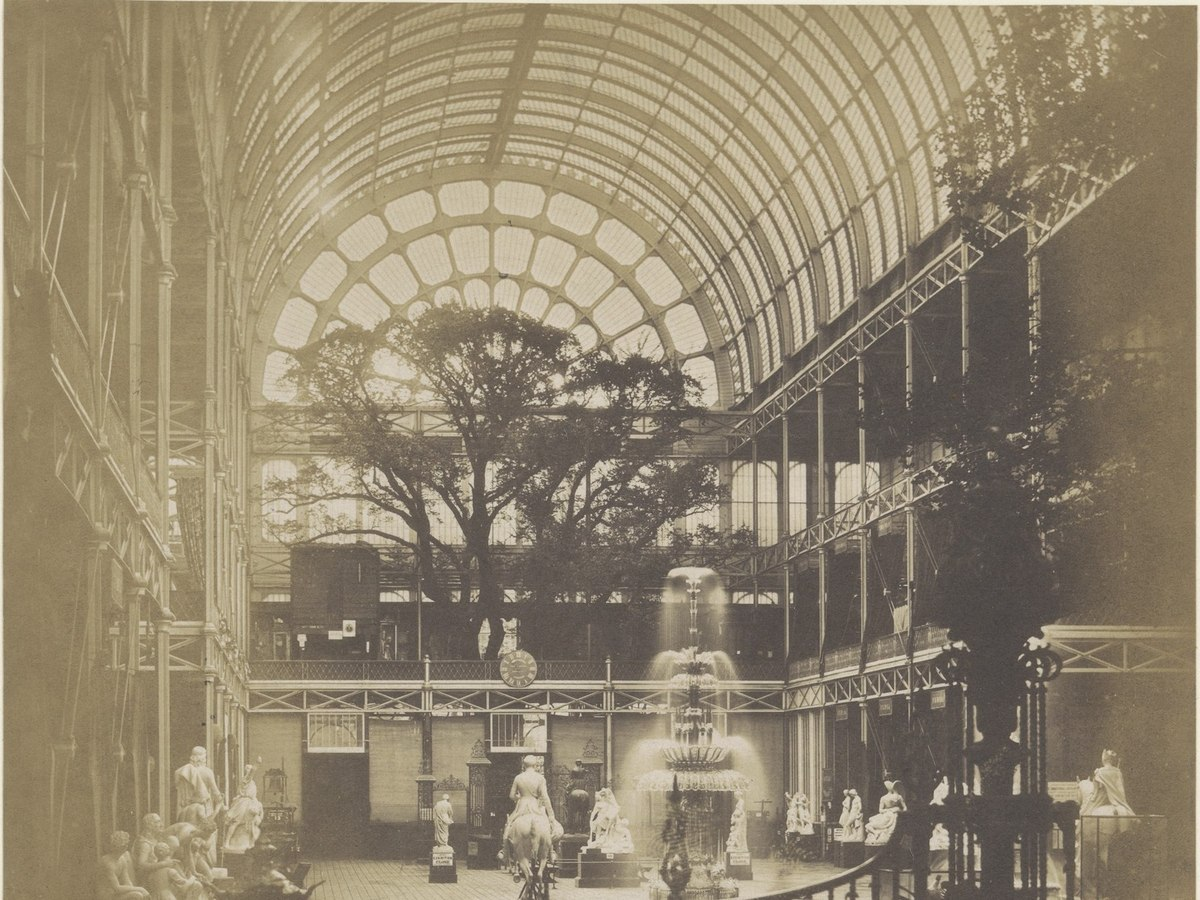
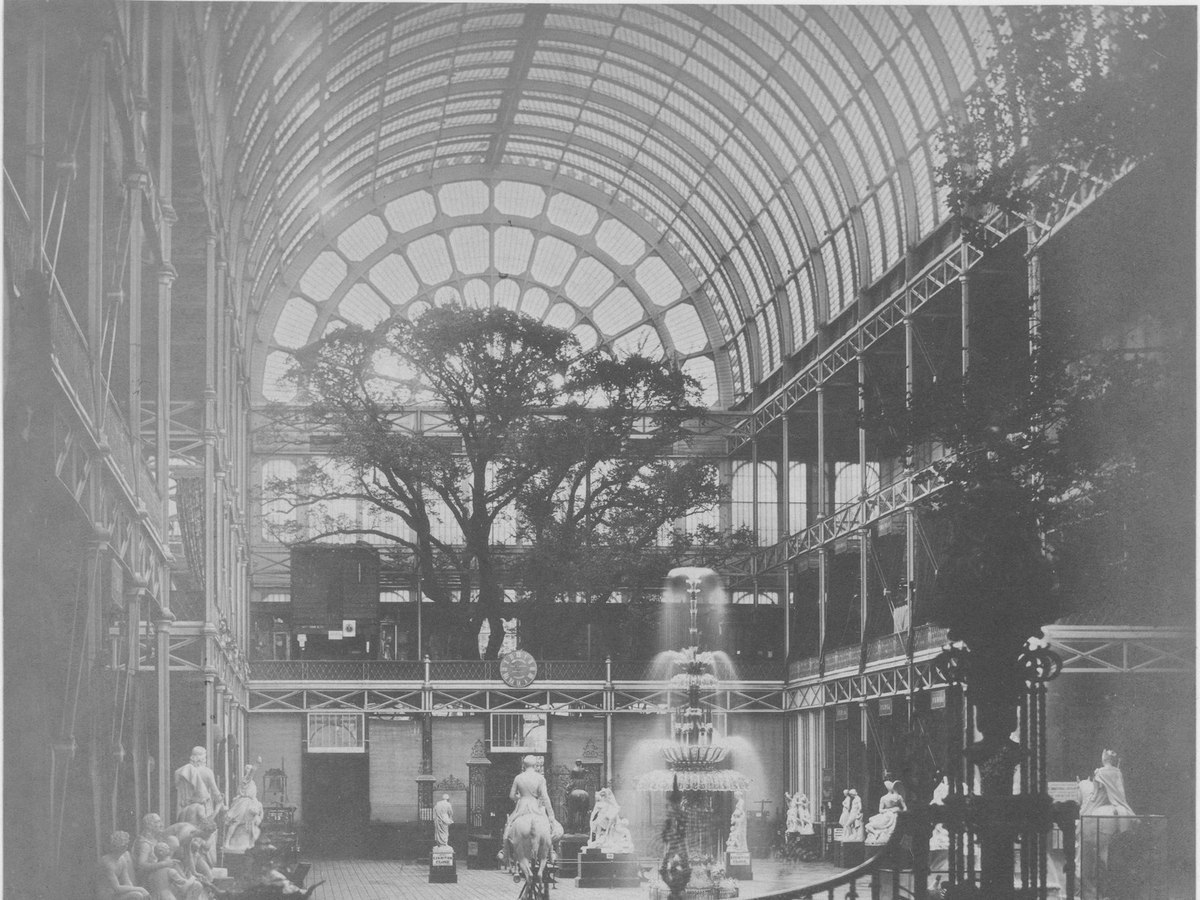
Fix a real bug in the cover gallery: only the picker previews were ever grayscale-converted, never the production source — the live gallery was linking straight to Met's original files, many of which are warm/sepia-toned (period albumen prints), and several are full album-page scans with wide uncrop
Also: swap Instrument Sans for Libre Franklin as the UI's body/nav typeface — a real Franklin-Gothic-plus-Didone editorial pairing with Bodoni Moda, replacing a font that read as generic tech-UI next to it. Rename "Campaigns" to "Projects" in the brand sidebar, page header, and back-navigation.

diff --git a/src/app/shared/mockData.ts b/src/app/shared/mockData.ts
@@ -1,6 +1,27 @@
 import type { Talent, PaymentStatus, CardComment, Campaign, RunwayShow, CastingStageId, CastingEntry, Look, CrewMember, CampaignThreadMessage } from "./types";
 import { formatCampaignDue } from "../../lib/formatDue";
 import coverCrystalPalaceTransept from "../../assets/cover-crystal-palace-transept.jpg";
+import galleryDP138588 from "../../assets/gallery/DP138588.jpg";
+import galleryDP240624 from "../../assets/gallery/DP240624.jpg";
+import galleryDP223650 from "../../assets/gallery/DP223650.jpg";
+import galleryDP43768001 from "../../assets/gallery/DP-43768-001.jpg";
+import galleryDP152207 from "../../assets/gallery/DP152207.jpg";
+import galleryDP273004 from "../../assets/gallery/DP273004.jpg";
+import galleryDP113942 from "../../assets/gallery/DP113942.jpg";
+import galleryDP200352 from "../../assets/gallery/DP200352.jpg";
+import galleryDT1165 from "../../assets/gallery/DT1165.jpg";
+import galleryDT4002 from "../../assets/gallery/DT4002.jpg";
+import galleryDP70292 from "../../assets/gallery/DP70292.jpg";
+import galleryDT223780 from "../../assets/gallery/DT223780.jpg";
+import galleryDP139275 from "../../assets/gallery/DP139275.jpg";
+import galleryDP139298 from "../../assets/gallery/DP139298.jpg";
+import galleryDP221452 from "../../assets/gallery/DP221452.jpg";
+import galleryDP115235 from "../../assets/gallery/DP115235.jpg";
+import galleryDP107953 from "../../assets/gallery/DP107953.jpg";
+import galleryDP107961 from "../../assets/gallery/DP107961.jpg";
+import galleryDP17115001 from "../../assets/gallery/DP-17115-001.jpg";
+import galleryDP112689 from "../../assets/gallery/DP112689.jpg";
+import seuratCover from "../../assets/gallery/seurat-cover.jpg";
 
 // Fixed "today" for demo purposes — drives talent-submission-window open/
 // closed state (see Campaign.submissionOpen/submissionClose) and the
@@ -127,122 +148,37 @@ export const NOTIFS = [
 // campaigns are now individually addressable by id.
 
 // Real, public-domain photographs from The Met's Open Access collection —
-// Pictorialism/Photo-Secession era (1850-1922). Replaces an earlier
-// Unsplash color-stock gallery entirely: DVURE's demo covers are now all
-// genuine black-and-white photography, not a placeholder color library.
-// Anything printed in a warm/sepia tone in the original (typical of
-// period albumen/salt prints) was converted to neutral black-and-white
-// before selection, so the whole pool reads as true B&W, not sepia.
+// Pictorialism/Photo-Secession era (1850-1922). Every file here is a
+// LOCAL asset (src/assets/gallery/), downloaded and force-converted to
+// true neutral grayscale via PIL, not a live link to Met's own CDN —
+// the raw Met files are frequently warm/sepia-toned (period albumen/
+// salt prints), and linking directly to them was a real bug: only the
+// picker PREVIEWS were ever grayscale-converted, never the production
+// source, so the live gallery was showing sepia, not black-and-white.
+// Any future addition MUST go through the same local-convert-then-
+// import step, never a raw metmuseum.org URL.
 const CAMPAIGN_COVER_GALLERY: string[] = [
-  "https://images.metmuseum.org/CRDImages/ph/original/DP138588.jpg", // Felix Teynard, "Esneh, Dattiers, Sycomore et Cafe Sur le Bord du Nil", 1851-54
-  "https://images.metmuseum.org/CRDImages/ph/original/DP240624.jpg", // Gustave Le Gray, "Brig on the Water", 1856
-  "https://images.metmuseum.org/CRDImages/ph/original/DP223650.jpg", // Gustave Le Gray, "[The Great Wave, Sete]", 1857
-  "https://images.metmuseum.org/CRDImages/ph/original/DP-43768-001.jpg", // Edouard Baldus, "Panorama de la Cite", 1860s
-  coverCrystalPalaceTransept, // Hugh Owen, "View of Transept, Looking South", 1851 — hand-cropped locally (see src/assets) to the vaulted-ceiling/fountain portion; the raw Met scan is a portrait-oriented mounted print with wide cream borders and a caption that a generic center-crop would mangle
-  "https://images.metmuseum.org/CRDImages/ph/original/DP152207.jpg", // Carleton E. Watkins, "South Dome, 6,000 feet", ca. 1872
-  "https://images.metmuseum.org/CRDImages/ph/original/DP273004.jpg", // Charles Marville, "[Cloud Study over Paris]", 1856-57
-  "https://images.metmuseum.org/CRDImages/ph/original/DP113942.jpg", // Alfred Capel Cure, "Haughmond Abbey", 1858
-  "https://images.metmuseum.org/CRDImages/ph/original/DP200352.jpg", // Charles Marville, "La Bievre", ca. 1862
-  "https://images.metmuseum.org/CRDImages/ph/original/DT1165.jpg", // Edouard Baldus, "[Entrance to the Port of Boulogne]", 1855
-  "https://images.metmuseum.org/CRDImages/ph/original/DT4002.jpg", // Gustave Le Gray, "Mediterranean with Mount Agde", 1857
-  "https://images.metmuseum.org/CRDImages/ph/original/DP70292.jpg", // Charles Marville, "Allee bordee d'arbres", 1850-53
-  "https://images.metmuseum.org/CRDImages/ph/original/DT223780.jpg", // Constant Alexandre Famin, "[Man in a Forest Landscape]", ca. 1870
-  "https://images.metmuseum.org/CRDImages/ph/original/DP139275.jpg", // Edmond Bacot, "Vue generale de Rouen", 1852-54
-  "https://images.metmuseum.org/CRDImages/ph/original/DP139298.jpg", // Edmond Bacot, "Rue des Petits Murs, Caen", 1852-54
-  "https://images.metmuseum.org/CRDImages/ph/original/DP221452.jpg", // Joseph Vigier, "Sentier du chaos, St-Sauveur", 1853
-  "https://images.metmuseum.org/CRDImages/ph/original/DP115235.jpg", // Unknown, "[St. Pierre, Caen]", 1850s
-  "https://images.metmuseum.org/CRDImages/ph/original/DP107953.jpg", // Roger Fenton, "[Landscape with Clouds]", probably 1856
-  "https://images.metmuseum.org/CRDImages/ph/original/DP107961.jpg", // Roger Fenton, "Wharfe and Pool, Below the Strid", 1854
-  "https://images.metmuseum.org/CRDImages/ph/original/DP-17115-001.jpg", // John Beasley Greene, "[The Nile in front of the Theban Hills]", 1853-54
-  "https://images.metmuseum.org/CRDImages/ph/original/DP112689.jpg", // Francis Bedford, "Clovelly, The New Inn and Street", 1870s
-  "https://images.metmuseum.org/CRDImages/ph/original/DP116350.jpg", // Francis Frith, "[Six East Indian Men]", 1870s
-  "https://images.metmuseum.org/CRDImages/ph/original/DP116351.jpg", // Francis Frith, "Rajpoots", 1870s
-  "https://images.metmuseum.org/CRDImages/ph/original/DP116352.jpg", // Francis Frith, "[Three East Indian Women]", 1870s
-  "https://images.metmuseum.org/CRDImages/ph/original/DP116353.jpg", // Francis Frith, "[Four East Indian Men]", 1870s
-  "https://images.metmuseum.org/CRDImages/ph/original/DP116354.jpg", // Francis Frith, "Marwaree Brokers", 1870s
-  "https://images.metmuseum.org/CRDImages/ph/original/DP116355.jpg", // Francis Frith, "Mehmans", 1870s
-  "https://images.metmuseum.org/CRDImages/ph/original/DP295243.jpg", // Julia Margaret Cameron, "[Ceylonese Group by a Tree]", 1878
-  "https://images.metmuseum.org/CRDImages/ph/original/DP295244.jpg", // Julia Margaret Cameron, "[Egeria]", 1874
-  "https://images.metmuseum.org/CRDImages/ph/original/DP116357.jpg", // Francis Frith, "Watermouth", 1870s
-  "https://images.metmuseum.org/CRDImages/ph/original/DP228859.jpg", // Andre-Adolphe-Eugene Disderi, "Le deux roses", 1860s
-  "https://images.metmuseum.org/CRDImages/ph/original/DP235135.jpg", // Pierre-Louis Pierson, "La capuche", 1860s
-  "https://images.metmuseum.org/CRDImages/ph/original/DP235149.jpg", // Pierre-Louis Pierson, "Le fauteuil", 1860s
-  "https://images.metmuseum.org/CRDImages/ph/original/DP235151.jpg", // Pierre-Louis Pierson, "La fouriure", 1860s
-  "https://images.metmuseum.org/CRDImages/ph/original/DP235155.jpg", // Pierre-Louis Pierson, "Le liseur", 1860s
-  "https://images.metmuseum.org/CRDImages/ph/original/DP235162.jpg", // Pierre-Louis Pierson, "Le montagnard", 1860s
-  "https://images.metmuseum.org/CRDImages/ph/original/DP235163.jpg", // Pierre-Louis Pierson, "L'Enfant blanc", 1860s
-  "https://images.metmuseum.org/CRDImages/ph/original/DP235184.jpg", // Pierre-Louis Pierson, "[La Comtesse in Hat with Veil and Cape with Fringe, Serie a la Ristori]", 1860s
-  "https://images.metmuseum.org/CRDImages/ph/original/DP-43768-001.jpg", // Edouard Baldus, "Panorama de la Cite", 1860s
-  "https://images.metmuseum.org/CRDImages/ph/original/DP-43768-010.jpg", // Edouard Baldus, "Pavillon Sully", 1850s-60s
-  "https://images.metmuseum.org/CRDImages/ph/original/DP-43768-013.jpg", // Edouard Baldus, "La Madeleine", 1860s
-  "https://images.metmuseum.org/CRDImages/ph/original/DP-43768-020.jpg", // Edouard Baldus, "Pantheon", 1860s
-  "https://images.metmuseum.org/CRDImages/ph/original/DP-43768-021.jpg", // Edouard Baldus, "Corps Legislatif", 1860s
-  "https://images.metmuseum.org/CRDImages/ph/original/DP113875.jpg", // Felix Bonfils, "Rue du Caire", 1870s
-  "https://images.metmuseum.org/CRDImages/ph/original/DP295245.jpg", // Julia Margaret Cameron, "Sir John Herschel", April 1867
-  "https://images.metmuseum.org/CRDImages/ph/original/DP327313.jpg", // James Wallace Black, "[Boston from a Hot-Air Balloon]", 1860s
-  "https://images.metmuseum.org/CRDImages/ph/original/DP116723.jpg", // Frederick Gutekunst, "[Girl with Ringlets, Seated, Three-Quarter Length]", 1890s
-  "https://images.metmuseum.org/CRDImages/ph/original/DP71244.jpg", // E. Taurines, "[A Gypsy Dancing-Girl, Kathiawar]", ca. 1915
-  "https://images.metmuseum.org/CRDImages/ph/original/DP71257.jpg", // Unknown, "Batavian Woman", 1860s-70s
-  "https://images.metmuseum.org/CRDImages/ph/original/DP71289.jpg", // Unknown, "Batavia", 1860s-70s
-  "https://images.metmuseum.org/CRDImages/ph/original/DP-31141-020.jpg", // Timothy H. O'Sullivan, "Black Canon, From Camp 8, Looking Above", 1871
-  "https://images.metmuseum.org/CRDImages/ph/original/DP278779.jpg", // Charles Marville, "[Rue de Constantine]", 1866
-  "https://images.metmuseum.org/CRDImages/ph/original/DP152217.jpg", // Carleton E. Watkins, "Lower Yosemite Fall, 1,600 feet", ca. 1872, printed ca. 1876
-  "https://images.metmuseum.org/CRDImages/ph/original/DP152227.jpg", // Carleton E. Watkins, "Magic Tower, Yosemite", ca. 1872, printed ca. 1876
-  "https://images.metmuseum.org/CRDImages/ph/original/DP152260.jpg", // Carleton E. Watkins, "Santa Margarita Ranch", 1876, printed ca. 1876
-  "https://images.metmuseum.org/CRDImages/ph/original/DP109566.jpg", // Louis-Remy Robert, "[Table Top Still Life with Model Cathedral and Small Sculptures]", ca. 1856
-  "https://images.metmuseum.org/CRDImages/ph/original/DP71053.jpg", // Unknown, "[Charlton House with Seated Figures in Foreground]", 1850s
-  "https://images.metmuseum.org/CRDImages/ph/original/DP113944.jpg", // Alfred Capel Cure, "West Front - Peterboro", 1856
-  "https://images.metmuseum.org/CRDImages/ph/original/DP-15143-001.jpg", // Oscar Gustav Rejlander, "[Study for 'Two Ways of Life']", ca. 1857, printed 1987
-  "https://images.metmuseum.org/CRDImages/ph/original/DP116739.jpg", // Charles D'Hoy, "[Doorway of Predikherenkerk, Gent, Belgium]", ca. 1858
-  "https://images.metmuseum.org/CRDImages/ph/original/DT6533.jpg", // John Murray, "Street in Fatehpur Sikri, India", 1858-62
-  "https://images.metmuseum.org/CRDImages/ph/original/DT6799.jpg", // Gustave Le Gray, "Portail milieu d'Aubeterre", 1851
-  "https://images.metmuseum.org/CRDImages/ph/original/DP349113.jpg", // Raimund von Stillfried, "Views and Costumes of Japan", ca. 1872
-  "https://images.metmuseum.org/CRDImages/ph/original/DT6805.jpg", // Eadweard Muybridge, "Animal Locomotion. An Electro-Photographic Investigation of Consecutive Phases of Animal Movements. Commenced 1872 - Completed 1885. Volume I, Men (Nude)", 1880s
-  "https://images.metmuseum.org/CRDImages/ph/original/DP275124.jpg", // Eadweard Muybridge, "Animal Locomotion. An Electro-Photographic Investigation... of Animal Movements. Commenced 1872 - Completed 1885. Volume VI, Woman (Semi-Nude and Transparent Drapery) Children", 1880s
-  "https://images.metmuseum.org/CRDImages/ph/original/DP275123.jpg", // Eadweard Muybridge, "Animal Locomotion. An Electro-Photographic Investigation... of Animal Movements. Commenced 1872 - Completed 1885. Volume VII, Men and Woman (Draped) Miscellaneous Subjects", 1880s
-  "https://images.metmuseum.org/CRDImages/ph/original/DP300688.jpg", // Linnaeus Tripe, "Elliot Marbles and Other Sculpture from the Central Museum Madras: Group 26", May-June 1858
-  "https://images.metmuseum.org/CRDImages/ph/original/DP263575.jpg", // Nadar, "[Standing Female Nude]", 1860-61
-  "https://images.metmuseum.org/CRDImages/ph/original/DP352773.jpg", // Nadar, "Eugene Pelletan", 1855-59
-  "https://images.metmuseum.org/CRDImages/ph/original/DP158034.jpg", // Nadar, "Pierre-Luc-Charles Ciceri", 1855-60
-  "https://images.metmuseum.org/CRDImages/ph/original/DT7015.jpg", // Edouard Baldus, "Madeleine Bourquelot de Cervignieres", 1858
-  "https://images.metmuseum.org/CRDImages/ph/original/DT7047.jpg", // Nadar, "Gioacchino Rossini", March 1856
-  "https://images.metmuseum.org/CRDImages/ph/original/DT6993.jpg", // Julien Vallou de Villeneuve, "[Reclining Female Nude]", ca. 1853
-  "https://images.metmuseum.org/CRDImages/ph/original/DT1157.jpg", // Julien Vallou de Villeneuve, "[Female Nude, Reclining, in Profile]", ca. 1853
-  "https://images.metmuseum.org/CRDImages/ph/original/DT1156.jpg", // V. Dijon, "[Farmyard Scene]", 1850-54
-  "https://images.metmuseum.org/CRDImages/ph/original/DP143006.jpg", // Charles Clifford, "Portal of the Convent of Sancti Spiritu, Salamanca", 1853
-  "https://images.metmuseum.org/CRDImages/ph/original/MM86126.jpg", // Adolphe Terris, "Rue des Grands Carmes, Vue prise de la Rue Ste. Marthe, Marseille", 1862
-  "https://images.metmuseum.org/CRDImages/ph/original/DP200355.jpg", // Louis-Emile Durandelle, "Le Nouvel Opera de Paris (Sculpture Ornementale)", 1865-72
-  "https://images.metmuseum.org/CRDImages/ph/original/DT1121.jpg", // Julia Margaret Cameron, "Julia Jackson", 1867
-  "https://images.metmuseum.org/CRDImages/ph/original/DT252290.jpg", // Joseph T. Keiley, "A Sioux Chief [Has-No-Horses]", 1898
-  "https://images.metmuseum.org/CRDImages/ph/original/DP259466.jpg", // Hugo Henneberg, "[Italian Villa in Autumn]", 1898
-  "https://images.metmuseum.org/CRDImages/ph/original/DP70563.jpg", // William Frank Browne, "[Swamp Near Broadway Landing, Appomattox River, Virginia]", 1864
-  "https://images.metmuseum.org/CRDImages/ph/original/DP70631.jpg", // Andrew Joseph Russell, "[Looking Toward Marye's Heights, Fredericksburg]", 1864
-  "https://images.metmuseum.org/CRDImages/ph/original/DP70466.jpg", // Timothy H. O'Sullivan, "[Petersburg, Virginia]", April-May 1865
-  "https://images.metmuseum.org/CRDImages/ph/original/DP70617.jpg", // Thomas C. Roche, "Ruins in Carey Street, Richmond", 1865
-  "https://images.metmuseum.org/CRDImages/ph/original/DP70816.jpg", // Unknown, "[White picket fence with buildings in background]. Brady album, p. 123", 1861-65
-  "https://images.metmuseum.org/CRDImages/ph/original/DP70821.jpg", // Unknown, "[House framed by trees]. Brady album, p. 123", 1861-65
-  "https://images.metmuseum.org/CRDImages/ph/original/DP274790.jpg", // Andrew Joseph Russell, "Laborers at Quartermaster's Wharf, Alexandria, Virginia", 1863-65
-  "https://images.metmuseum.org/CRDImages/ph/original/DP70506.jpg", // George N. Barnard, "Bridge over Tennessee River at Chattanooga", ca. 1864
-  "https://images.metmuseum.org/CRDImages/ph/original/37.14.27.jpg", // Southworth and Hawes, "Mrs. James Thomas Fields (Annie Adams)", 1861
-  "https://images.metmuseum.org/CRDImages/ph/original/DP109623.jpg", // Victor Prevost, "[Rocky Hillside]", 1850s
-  "https://images.metmuseum.org/CRDImages/ph/original/DP295221.jpg", // Julia Margaret Cameron, "Charles Hay Cameron", 1864
-  "https://images.metmuseum.org/CRDImages/ph/original/DP295222.jpg", // Julia Margaret Cameron, "A Study", 1864
-  "https://images.metmuseum.org/CRDImages/ph/original/DP114480.jpg", // Henry Herschel Hay Cameron, "Julia Margaret Cameron", 1870
-  "https://images.metmuseum.org/CRDImages/ph/original/DP114472.jpg", // Julia Margaret Cameron, "Contemplations", 1864
-  "https://images.metmuseum.org/CRDImages/ph/original/DP-40543-001.jpg", // Eadweard Muybridge, "[Woman with a Fan]", 1883-86, printed 1887
-  "https://images.metmuseum.org/CRDImages/ph/original/DP-43767-031.jpg", // Edouard Baldus, "Vues de Paris en Photographie", 1850s-60s
-  "https://images.metmuseum.org/CRDImages/ph/original/DP115220.jpg", // Unknown, "[Men By Carriage in Street]", 1850s
-  "https://images.metmuseum.org/CRDImages/ph/original/DP-30374-001.jpg", // Louis-Desire Blanquart-Evrard, "Album Photographique. Choix de Vingt Sujets Divers.", 1850s
-  "https://images.metmuseum.org/CRDImages/ph/original/DP70287.jpg", // Edward King Tenison, "Etude d'arbre", 1850-53
-  "https://images.metmuseum.org/CRDImages/ph/original/DP70288.jpg", // Charles Marville, "Carriere", 1850-53
-  "https://images.metmuseum.org/CRDImages/ph/original/DP158041.jpg", // Charles Marville, "Homme allonge au pied d'un chataignier", 1850-53
-  "https://images.metmuseum.org/CRDImages/ph/original/DP111349.jpg", // Antoine-Samuel Adam-Salomon, "[Bearded Man with Magnifying Glass Examining a Manuscript]", 1870s
-  "https://images.metmuseum.org/CRDImages/ph/original/DP260866.jpg", // Peter Henry Emerson, "A Stiff Pull", 1880s, printed 1887
-  "https://images.metmuseum.org/CRDImages/ph/original/DP111496.jpg", // Franz Antoine, "[Group Portrait of the Antoine and Hausermann Families]", 1850s-60s
-  "https://images.metmuseum.org/CRDImages/ph/original/DP111498.jpg", // Franz Antoine, "[Seated Lady in Striped Dress with Four Little Girls]", 1850s-60s
-  "https://images.metmuseum.org/CRDImages/ph/original/DP111499.jpg", // Franz Antoine, "Elise Hausermann, Hermine, Marie and Marie Antoine", 1850s-60s
-  "https://images.metmuseum.org/CRDImages/ph/original/DP111501.jpg", // Franz Antoine, "[Hermine, Alfons and Eugen Antoine and Mathias Hausermann on a fallen tree]", 1850s-60s
-  "https://images.metmuseum.org/CRDImages/ph/original/DP111478.jpg", // Franz Antoine, "Grofin Auersperg", 1850s-60s
+  galleryDP138588, // Felix Teynard, "Esneh, Dattiers, Sycomore et Cafe Sur le Bord du Nil", 1851-54
+  galleryDP240624, // Gustave Le Gray, "Brig on the Water", 1856
+  galleryDP223650, // Gustave Le Gray, "[The Great Wave, Sete]", 1857
+  galleryDP43768001, // Edouard Baldus, "Panorama de la Cite", 1860s
+  coverCrystalPalaceTransept, // Hugh Owen, "View of Transept, Looking South", 1851
+  galleryDP152207, // Carleton E. Watkins, "South Dome, 6,000 feet", ca. 1872
+  galleryDP273004, // Charles Marville, "[Cloud Study over Paris]", 1856-57
+  galleryDP113942, // Alfred Capel Cure, "Haughmond Abbey", 1858
+  galleryDP200352, // Charles Marville, "La Bievre", ca. 1862
+  galleryDT1165, // Edouard Baldus, "[Entrance to the Port of Boulogne]", 1855
+  galleryDT4002, // Gustave Le Gray, "Mediterranean with Mount Agde", 1857
+  galleryDP70292, // Charles Marville, "Allee bordee d'arbres", 1850-53
+  galleryDT223780, // Constant Alexandre Famin, "[Man in a Forest Landscape]", ca. 1870
+  galleryDP139275, // Edmond Bacot, "Vue generale de Rouen", 1852-54
+  galleryDP139298, // Edmond Bacot, "Rue des Petits Murs, Caen", 1852-54
+  galleryDP221452, // Joseph Vigier, "Sentier du chaos, St-Sauveur", 1853
+  galleryDP115235, // Unknown, "[St. Pierre, Caen]", 1850s
+  galleryDP107953, // Roger Fenton, "[Landscape with Clouds]", probably 1856
+  galleryDP107961, // Roger Fenton, "Wharfe and Pool, Below the Strid", 1854
+  galleryDP17115001, // John Beasley Greene, "[The Nile in front of the Theban Hills]", 1853-54
+  galleryDP112689, // Francis Bedford, "Clovelly, The New Inn and Street", 1870s
 ];
 
 // Assigns every campaign in one rendered list a DISTINCT photo — not just
@@ -265,7 +201,7 @@ export function assignCampaignCovers(ids: number[]): Map<number, string> {
 }
 
 export const CAMPAIGNS: Campaign[] = [
-  { id:1, name:"AW25 Womenswear Campaign", type:"Campaign",     status:"active",   due:formatCampaignDue("2026-07-22", MOCK_NOW), dueLabel:"Due tomorrow",     dueUrgency:"high",   submitted:14, approved:6,  booked:2, talentNeeded:4, budget:18000, committed:5150,  remaining:12850, submissionOpen:"May 1, 2026",  submissionClose:"Aug 15, 2026", coverPhoto:"https://images.metmuseum.org/CRDImages/ep/original/DP-19196-001.jpg" /* Seurat, "Landscape at Saint-Ouen" — The Met, public domain */ },
+  { id:1, name:"AW25 Womenswear Campaign", type:"Campaign",     status:"active",   due:formatCampaignDue("2026-07-22", MOCK_NOW), dueLabel:"Due tomorrow",     dueUrgency:"high",   submitted:14, approved:6,  booked:2, talentNeeded:4, budget:18000, committed:5150,  remaining:12850, submissionOpen:"May 1, 2026",  submissionClose:"Aug 15, 2026", coverPhoto:seuratCover /* Seurat, "Landscape at Saint-Ouen" — The Met, public domain — force-converted to true grayscale locally, same as the rest of the gallery (the raw file has a visible color cast) */ },
   { id:2, name:"SS25 Fragrance Launch",    type:"Campaign",     status:"active",   due:formatCampaignDue("2026-07-26", MOCK_NOW), dueLabel:"5 days remaining", dueUrgency:"medium", submitted:9,  approved:4,  booked:0, talentNeeded:2, budget:10000, committed:0,     remaining:10000, submissionOpen:"May 15, 2026", submissionClose:"Jul 25, 2026" },
   { id:3, name:"Resort Lookbook 2025",     type:"Campaign",     status:"active",   due:formatCampaignDue("2026-08-04", MOCK_NOW), dueLabel:"14 days",          dueUrgency:"low",    submitted:21, approved:7,  booked:0, talentNeeded:3, budget:7000,  committed:0,     remaining:7000,  submissionOpen:"Jun 1, 2026",  submissionClose:"Aug 10, 2026" },
   { id:4, name:"FW24 Campaign",            type:"Campaign",     status:"archived", due:formatCampaignDue("2025-12-20", MOCK_NOW), dueLabel:"Archived",         dueUrgency:"low",    submitted:41, approved:11, booked:3, talentNeeded:4, budget:15000, committed:15000, remaining:0,     submissionOpen:"Nov 1, 2025",  submissionClose:"Dec 15, 2025" },

diff --git a/src/app/brand/BrandApp.tsx b/src/app/brand/BrandApp.tsx
@@ -80,7 +80,7 @@ function ExclamationIcon({ size = 15, className }: { size?: number; className?: 
 }
 
 const GLOBAL_NAV: { id: GlobalView; label: string; Icon: IconFn; badge?: number }[] = [
-  { id:"campaigns",        label:"Campaigns",  Icon:Camera                },
+  { id:"campaigns",        label:"Projects",   Icon:Camera                },
   { id:"urgent",           label:"Tasks",      Icon:ExclamationIcon        },
   { id:"contracts-global", label:"Contracts",  Icon:FileCheck              },
   { id:"payments-global",  label:"Payments",   Icon:CreditCard             },
@@ -106,7 +106,7 @@ function BrandSidebar({ active, onNav, onOpenCampaign, onLogout }: {
           <div className="text-base font-medium truncate flex items-center gap-1.5">{orgName} <CountryFlag country={ORG_COUNTRY[orgName]} className="text-xs"/></div>
           <div className="text-xs font-mono text-muted-foreground uppercase tracking-widest">Brand</div>
         </div>
-        <button onClick={()=>onNav("campaigns")} title="Campaigns"
+        <button onClick={()=>onNav("campaigns")} title="Projects"
           className="shrink-0 p-1.5 rounded-md text-muted-foreground hover:text-foreground hover:bg-secondary transition-colors cursor-pointer">
           <Home size={15}/>
         </button>
@@ -192,14 +192,14 @@ function CampaignSidebar({ campaign, section, onSection, onBack, onNewCampaign, 
           <div className="text-base font-medium truncate flex items-center gap-1.5">{orgName} <CountryFlag country={ORG_COUNTRY[orgName]} className="text-xs"/></div>
           <div className="text-xs font-mono text-muted-foreground uppercase tracking-widest">Brand</div>
         </div>
-        <button onClick={onHome} title="Campaigns"
+        <button onClick={onHome} title="Projects"
           className="shrink-0 p-1.5 rounded-md text-muted-foreground hover:text-foreground hover:bg-secondary transition-colors cursor-pointer">
           <Home size={15}/>
         </button>
       </div>
       <div className="px-3 pt-3 pb-2">
         <button onClick={onBack} className="w-full flex items-center gap-2 px-3 py-1.5 text-xs text-muted-foreground hover:text-foreground hover:bg-secondary rounded-md transition-colors text-left">
-          <ChevronLeft size={13}/> All Campaigns
+          <ChevronLeft size={13}/> All Projects
         </button>
       </div>
       <div className="px-4 py-3 border-b border-border">
@@ -1606,7 +1606,7 @@ function CampaignsList({ campaigns, openCampaign, onNewCampaign }: { campaigns: 
   const covers = assignCampaignCovers(filtered.map(c=>c.id));
   return (
     <div className="flex-1 flex flex-col min-h-0">
-      <TopBar title="Campaigns" sub={`${currentUser?.org ?? ""} · Brand`}/>
+      <TopBar title="Projects" sub={`${currentUser?.org ?? ""} · Brand`}/>
       <div className="flex-1 overflow-auto p-6 space-y-5">
         <div className="flex items-center justify-between gap-1 mb-4 border-b border-border">
           <div className="flex items-center gap-1">

diff --git a/src/styles/fonts.css b/src/styles/fonts.css
@@ -2,15 +2,19 @@
    cropped reference PNG) far more closely than Fraunces did: thin
    hairline serifs, sharp vertical stress, tall condensed proportions.
    This is the platform's one "big text" / signature-brand-mention face;
-   Instrument Sans (below) handles everything else. Requesting the full variable
+   Libre Franklin (below) handles everything else. Requesting the full variable
    optical-size range so it self-adjusts between display and text sizes.
    (Playfair Display and Antic Didone were both tried and reverted —
    this is the font actually live on dvure.com; back to it.) */
 @import url('https://fonts.googleapis.com/css2?family=Bodoni+Moda:ital,opsz,wght@0,6..96,400..900;1,6..96,400..900&display=swap');
 
-/* Instrument Sans for body copy, UI chrome, and free-text fields —
-   picked over Inter for having actual character in its letterforms
-   (the 'g', 'a') that gives body text some warmth without competing
-   with the display headings — Inter read as too flat/generic next
-   to them. Replaces Inter. */
-@import url('https://fonts.googleapis.com/css2?family=Instrument+Sans:wght@400;500;600;700&display=swap');
+/* Libre Franklin for body copy, UI chrome, and free-text fields —
+   replaces Instrument Sans, which read as generic tech-UI next to
+   Bodoni Moda rather than part of the same world. Libre Franklin is a
+   revival of Franklin Gothic, the actual grotesque a Didone display
+   face like Bodoni gets paired with in real fashion editorial (the
+   masthead-serif + Franklin-Gothic-body combination is a genuine
+   convention, not an invented pairing) — same clean, legible grid as
+   Instrument Sans for dense UI, but with the European-editorial
+   character the org name / nav / body text was missing. */
+@import url('https://fonts.googleapis.com/css2?family=Libre+Franklin:ital,wght@0,300..800;1,300..800&display=swap');

diff --git a/src/styles/theme.css b/src/styles/theme.css
@@ -40,7 +40,7 @@
   --glass-dark-bg: rgba(10, 10, 10, 0.72);
   --glass-dark-border: rgba(255, 255, 255, 0.08);
   --font-display: "Bodoni Moda", ui-serif, Georgia, "Times New Roman", serif;
-  --font-sans: "Instrument Sans", ui-sans-serif, -apple-system, "Segoe UI", system-ui, sans-serif;
+  --font-sans: "Libre Franklin", ui-sans-serif, -apple-system, "Segoe UI", system-ui, sans-serif;
   /* Formerly a gold accent — retired. Black/white is DVURE's anchor
      ("fashion forward", per direct feedback); color now comes only from
      whatever a brand actually uploads for their own campaign covers,

diff --git a/src/app/brand/InvoicePayment.tsx b/src/app/brand/InvoicePayment.tsx
@@ -145,7 +145,7 @@ export default function InvoicePaymentPanel({ campaignId, onPaid }: { campaignId
               colorText: "#1E1C1A",
               colorTextSecondary: "#6E675D",
               colorDanger: "#C0392B",
-              fontFamily: "\"Instrument Sans\", ui-sans-serif, sans-serif",
+              fontFamily: "\"Libre Franklin\", ui-sans-serif, sans-serif",
               borderRadius: "3px",
               spacingUnit: "4px",
             },
